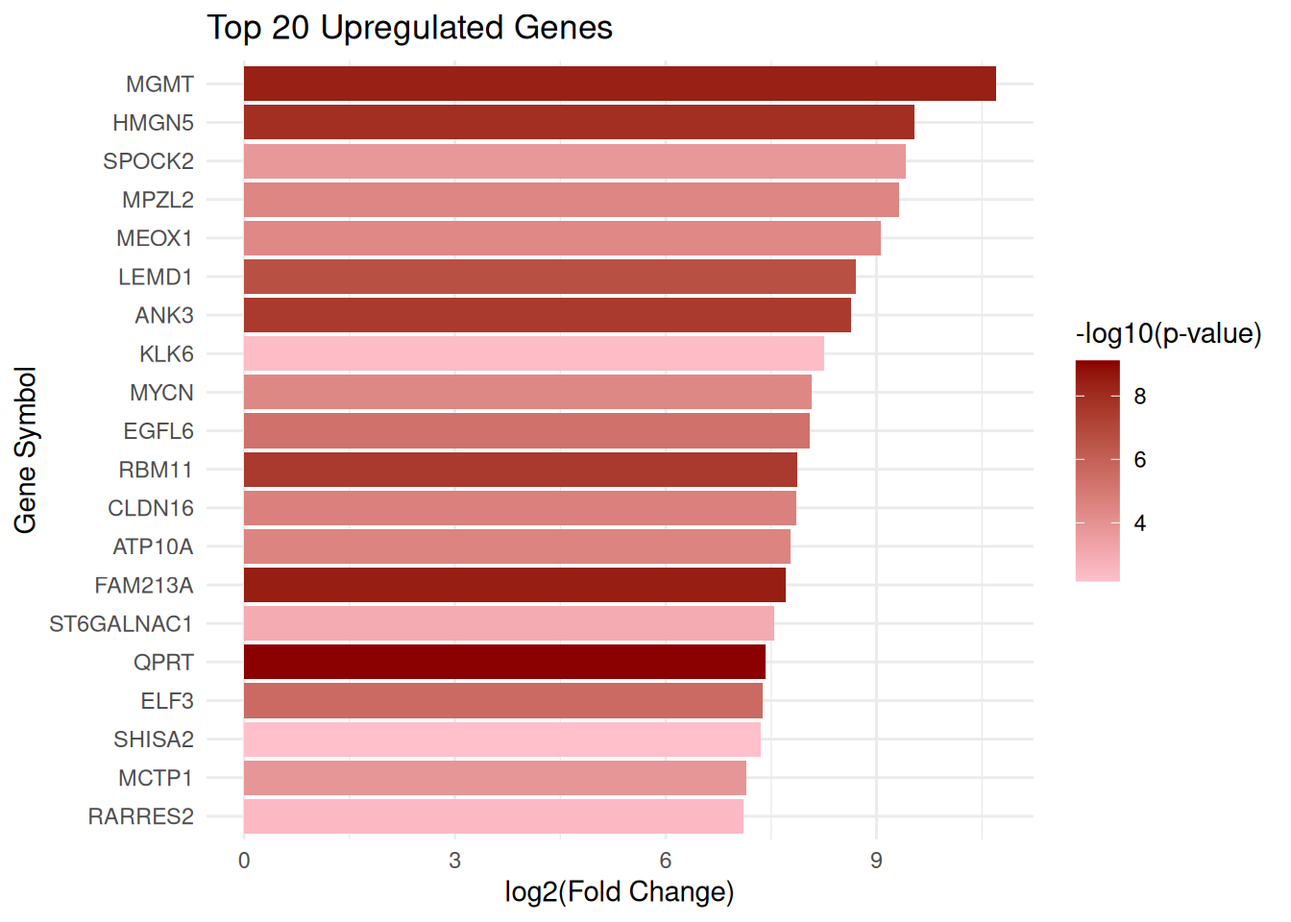
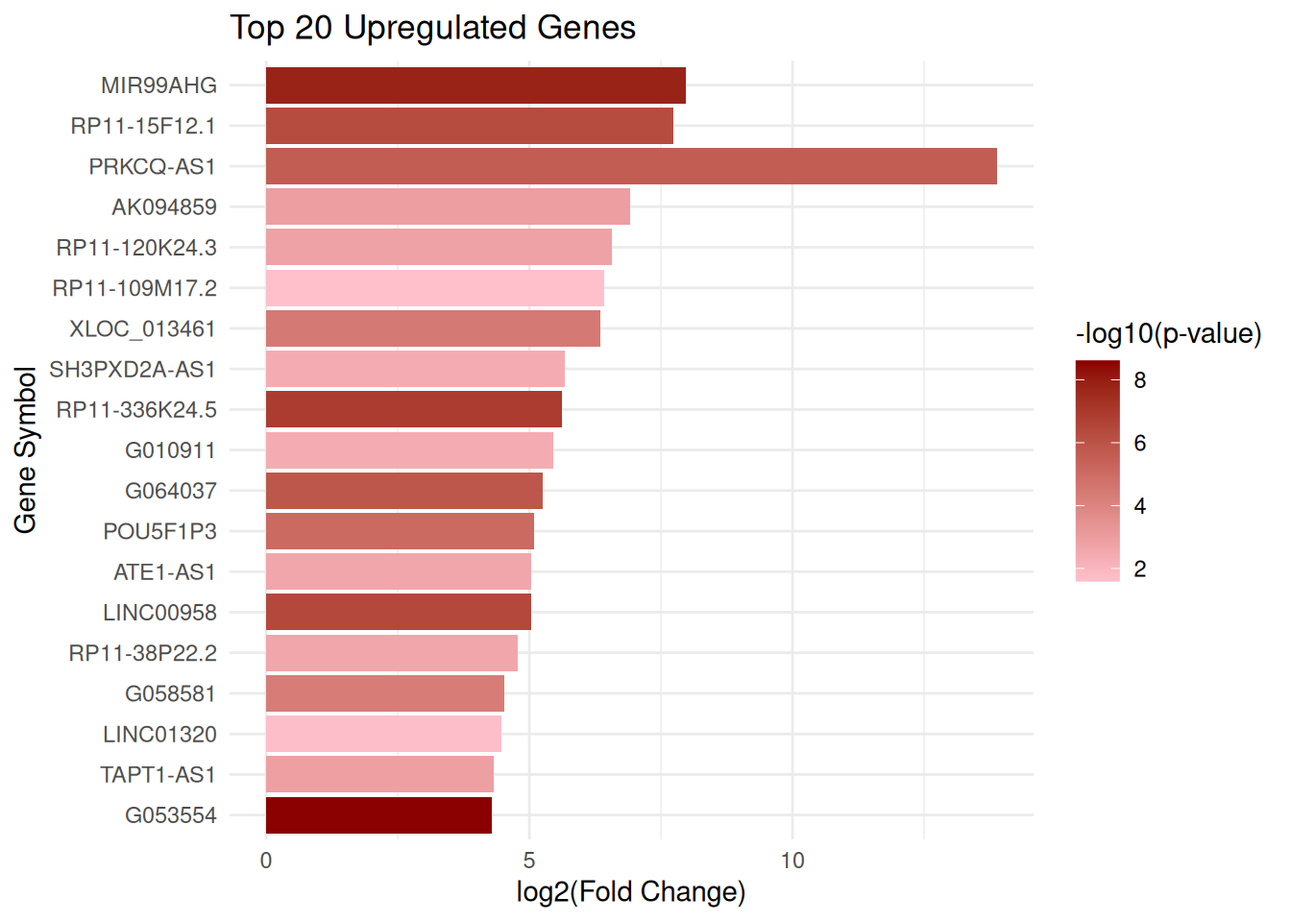
Built site for gh-pages

diff --git a/projects/project_title.html b/projects/project_title.html
@@ -8,7 +8,7 @@
 
 <meta name="author" content="Sneha Basu">
 
-<title>Transcriptomics profiling of Ovarian Cancer cells demonstrating differential lncRNA and mRNA expression – Sneha_Basu_website</title>
+<title>Transcriptomics profiling of Ovarian Cancer cells – Sneha_Basu_website</title>
 <style>
 code{white-space: pre-wrap;}
 span.smallcaps{font-variant: small-caps;}
@@ -144,15 +144,27 @@ pre > code.sourceCode > span > a:first-child::before { text-decoration: underlin
 <div id="quarto-content" class="quarto-container page-columns page-rows-contents page-layout-article page-navbar">
 <!-- sidebar -->
 <!-- margin-sidebar -->
-    <div id="quarto-margin-sidebar" class="sidebar margin-sidebar zindex-bottom">
-        
+    <div id="quarto-margin-sidebar" class="sidebar margin-sidebar">
+        <nav id="TOC" role="doc-toc" class="toc-active">
+    <h2 id="toc-title">On this page</h2>
+   
+  <ul>
+  <li><a href="#introduction-to-long-non-coding-rna" id="toc-introduction-to-long-non-coding-rna" class="nav-link active" data-scroll-target="#introduction-to-long-non-coding-rna">Introduction to long non-coding RNA</a>
+  <ul class="collapse">
+  <li><a href="#what-are-the-differentially-expressed-genes-in-ovarian-cancer" id="toc-what-are-the-differentially-expressed-genes-in-ovarian-cancer" class="nav-link" data-scroll-target="#what-are-the-differentially-expressed-genes-in-ovarian-cancer">What are the differentially expressed genes in Ovarian Cancer?</a></li>
+  <li><a href="#what-are-the-top-twenty-most-upregulated-and-downregulated-genes" id="toc-what-are-the-top-twenty-most-upregulated-and-downregulated-genes" class="nav-link" data-scroll-target="#what-are-the-top-twenty-most-upregulated-and-downregulated-genes">What are the top twenty most upregulated and downregulated genes?</a></li>
+  <li><a href="#is-there-any-transcriptomic-variation-among-the-ovarian-cancer-samples-and-control-sample" id="toc-is-there-any-transcriptomic-variation-among-the-ovarian-cancer-samples-and-control-sample" class="nav-link" data-scroll-target="#is-there-any-transcriptomic-variation-among-the-ovarian-cancer-samples-and-control-sample">Is there any transcriptomic variation among the ovarian cancer samples and control sample?</a></li>
+  <li><a href="#conclusion" id="toc-conclusion" class="nav-link" data-scroll-target="#conclusion">Conclusion</a></li>
+  </ul></li>
+  </ul>
+</nav>
     </div>
 <!-- main -->
 <main class="content" id="quarto-document-content">
 
 <header id="title-block-header" class="quarto-title-block default">
 <div class="quarto-title">
-<h1 class="title">Transcriptomics profiling of Ovarian Cancer cells demonstrating differential lncRNA and mRNA expression</h1>
+<h1 class="title">Transcriptomics profiling of Ovarian Cancer cells</h1>
 </div>
 
 
@@ -175,131 +187,120 @@ pre > code.sourceCode > span > a:first-child::before { text-decoration: underlin
 </header>
 
 
-<p>The goal of this study is to explore the transcriptomic changes in ovarian cancer cells by analyzing mRNA and lncRNA expression. We aim to identify significantly dysregulated genes and understand their roles in cancer progression using various computational techniques such as volcano plots, bar graphs, PCA, and CNC (coding-non-coding) correlation analysis.</p>
-<ol type="1">
-<li>What are the differentially expressed genes in Ovarian Cancer?</li>
-</ol>
+<section id="introduction-to-long-non-coding-rna" class="level1">
+<h1>Introduction to long non-coding RNA</h1>
+<p>Long non-coding RNAs (lncRNAs) are RNA molecules that are longer than 200 nucleotides and do not code for proteins. Once considered “junk” in the genome, lncRNAs are now recognized as crucial regulators of gene expression. They can influence cellular processes such as chromatin remodeling, transcription, splicing, and translation by interacting with DNA, RNA, or proteins.</p>
+<p>The goal of this study is to explore the transcriptomic changes in ovarian cancer cells by analyzing mRNA and lncRNA expression. We aim to identify significantly dysregulated genes and understand their roles in cancer progression using various computational techniques such as volcano plots, bar graphs, and PCA analysis.</p>
+<section id="what-are-the-differentially-expressed-genes-in-ovarian-cancer" class="level3">
+<h3 class="anchored" data-anchor-id="what-are-the-differentially-expressed-genes-in-ovarian-cancer">What are the differentially expressed genes in Ovarian Cancer?</h3>
 <div class="cell">
 <div class="sourceCode cell-code" id="cb1"><pre class="sourceCode r code-with-copy"><code class="sourceCode r"><span id="cb1-1"><a href="#cb1-1" aria-hidden="true" tabindex="-1"></a><span class="fu">library</span>(tidyverse)</span></code><button title="Copy to Clipboard" class="code-copy-button"><i class="bi"></i></button></pre></div>
-<div class="cell-output cell-output-stderr">
-<pre><code>── Attaching core tidyverse packages ──────────────────────── tidyverse 2.0.0 ──
-✔ dplyr     1.1.4     ✔ readr     2.1.5
-✔ forcats   1.0.0     ✔ stringr   1.5.1
-✔ ggplot2   3.5.2     ✔ tibble    3.3.0
-✔ lubridate 1.9.4     ✔ tidyr     1.3.1
-✔ purrr     1.1.0     
-── Conflicts ────────────────────────────────────────── tidyverse_conflicts() ──
-✖ dplyr::filter() masks stats::filter()
-✖ dplyr::lag()    masks stats::lag()
-ℹ Use the conflicted package (&lt;http://conflicted.r-lib.org/&gt;) to force all conflicts to become errors</code></pre>
 </div>
-</div>
-<p>Preparing the data for volcano plot</p>
+<p>Preparing the data for volcano plot (mRNA Data)</p>
 <div class="cell">
-<div class="sourceCode cell-code" id="cb3"><pre class="sourceCode r code-with-copy"><code class="sourceCode r"><span id="cb3-1"><a href="#cb3-1" aria-hidden="true" tabindex="-1"></a>mRNA_data <span class="ot">&lt;-</span> <span class="fu">read_csv</span>(<span class="st">"CNC_mRNA.csv"</span>)</span></code><button title="Copy to Clipboard" class="code-copy-button"><i class="bi"></i></button></pre></div>
-<div class="cell-output cell-output-stderr">
-<pre><code>Rows: 1974 Columns: 16
-── Column specification ────────────────────────────────────────────────────────
-Delimiter: ","
-chr  (5): ProbeName, Regulation, GeneSymbol, chrom, strand
-dbl (11): FoldChange, RNAlength, txStart, txEnd, 2,treatednormalized, 3,trea...
-
-ℹ Use `spec()` to retrieve the full column specification for this data.
-ℹ Specify the column types or set `show_col_types = FALSE` to quiet this message.</code></pre>
-</div>
-<div class="sourceCode cell-code" id="cb5"><pre class="sourceCode r code-with-copy"><code class="sourceCode r"><span id="cb5-1"><a href="#cb5-1" aria-hidden="true" tabindex="-1"></a>mRNA_data <span class="ot">&lt;-</span> mRNA_data <span class="sc">|&gt;</span> </span>
-<span id="cb5-2"><a href="#cb5-2" aria-hidden="true" tabindex="-1"></a>  <span class="fu">mutate</span>(</span>
-<span id="cb5-3"><a href="#cb5-3" aria-hidden="true" tabindex="-1"></a>    <span class="at">log2FC =</span> <span class="fu">ifelse</span>(Regulation <span class="sc">==</span> <span class="st">"down"</span>, <span class="sc">-</span><span class="fu">log2</span>(FoldChange), <span class="fu">log2</span>(FoldChange)),</span>
-<span id="cb5-4"><a href="#cb5-4" aria-hidden="true" tabindex="-1"></a>    <span class="at">negLog10P =</span> <span class="sc">-</span><span class="fu">log10</span>(p_value),</span>
-<span id="cb5-5"><a href="#cb5-5" aria-hidden="true" tabindex="-1"></a>    <span class="at">status =</span> <span class="fu">case_when</span>(</span>
-<span id="cb5-6"><a href="#cb5-6" aria-hidden="true" tabindex="-1"></a>      log2FC <span class="sc">&gt;=</span> <span class="dv">1</span> <span class="sc">&amp;</span> p_value <span class="sc">&lt;</span> <span class="fl">0.05</span> <span class="sc">~</span> <span class="st">"Upregulated"</span>,</span>
-<span id="cb5-7"><a href="#cb5-7" aria-hidden="true" tabindex="-1"></a>      log2FC <span class="sc">&lt;=</span> <span class="sc">-</span><span class="dv">1</span> <span class="sc">&amp;</span> p_value <span class="sc">&lt;</span> <span class="fl">0.05</span> <span class="sc">~</span> <span class="st">"Downregulated"</span>,</span>
-<span id="cb5-8"><a href="#cb5-8" aria-hidden="true" tabindex="-1"></a>      <span class="cn">TRUE</span> <span class="sc">~</span> <span class="st">"Not Significant"</span></span>
-<span id="cb5-9"><a href="#cb5-9" aria-hidden="true" tabindex="-1"></a>    )</span>
-<span id="cb5-10"><a href="#cb5-10" aria-hidden="true" tabindex="-1"></a>  )</span></code><button title="Copy to Clipboard" class="code-copy-button"><i class="bi"></i></button></pre></div>
+<div class="sourceCode cell-code" id="cb2"><pre class="sourceCode r code-with-copy"><code class="sourceCode r"><span id="cb2-1"><a href="#cb2-1" aria-hidden="true" tabindex="-1"></a>mRNA_data <span class="ot">&lt;-</span> <span class="fu">read_csv</span>(<span class="st">"CNC_mRNA.csv"</span>)</span>
+<span id="cb2-2"><a href="#cb2-2" aria-hidden="true" tabindex="-1"></a>mRNA_data <span class="ot">&lt;-</span> mRNA_data <span class="sc">|&gt;</span> </span>
+<span id="cb2-3"><a href="#cb2-3" aria-hidden="true" tabindex="-1"></a>  <span class="fu">mutate</span>(</span>
+<span id="cb2-4"><a href="#cb2-4" aria-hidden="true" tabindex="-1"></a>    <span class="at">log2FC =</span> <span class="fu">ifelse</span>(Regulation <span class="sc">==</span> <span class="st">"down"</span>, <span class="sc">-</span><span class="fu">log2</span>(FoldChange), <span class="fu">log2</span>(FoldChange)),</span>
+<span id="cb2-5"><a href="#cb2-5" aria-hidden="true" tabindex="-1"></a>    <span class="at">negLog10P =</span> <span class="sc">-</span><span class="fu">log10</span>(p_value),</span>
+<span id="cb2-6"><a href="#cb2-6" aria-hidden="true" tabindex="-1"></a>    <span class="at">status =</span> <span class="fu">case_when</span>(</span>
+<span id="cb2-7"><a href="#cb2-7" aria-hidden="true" tabindex="-1"></a>      log2FC <span class="sc">&gt;=</span> <span class="dv">2</span> <span class="sc">&amp;</span> p_value <span class="sc">&lt;</span> <span class="fl">0.05</span> <span class="sc">~</span> <span class="st">"Upregulated"</span>,</span>
+<span id="cb2-8"><a href="#cb2-8" aria-hidden="true" tabindex="-1"></a>      log2FC <span class="sc">&lt;=</span> <span class="sc">-</span><span class="dv">2</span> <span class="sc">&amp;</span> p_value <span class="sc">&lt;</span> <span class="fl">0.05</span> <span class="sc">~</span> <span class="st">"Downregulated"</span>,</span>
+<span id="cb2-9"><a href="#cb2-9" aria-hidden="true" tabindex="-1"></a>      <span class="cn">TRUE</span> <span class="sc">~</span> <span class="st">"Not Significant"</span></span>
+<span id="cb2-10"><a href="#cb2-10" aria-hidden="true" tabindex="-1"></a>    )</span>
+<span id="cb2-11"><a href="#cb2-11" aria-hidden="true" tabindex="-1"></a>  )</span></code><button title="Copy to Clipboard" class="code-copy-button"><i class="bi"></i></button></pre></div>
 </div>
 <div class="cell">
-<div class="sourceCode cell-code" id="cb6"><pre class="sourceCode r code-with-copy"><code class="sourceCode r"><span id="cb6-1"><a href="#cb6-1" aria-hidden="true" tabindex="-1"></a><span class="fu">table</span>(mRNA_data<span class="sc">$</span>status)</span></code><button title="Copy to Clipboard" class="code-copy-button"><i class="bi"></i></button></pre></div>
+<div class="sourceCode cell-code" id="cb3"><pre class="sourceCode r code-with-copy"><code class="sourceCode r"><span id="cb3-1"><a href="#cb3-1" aria-hidden="true" tabindex="-1"></a><span class="fu">table</span>(mRNA_data<span class="sc">$</span>status)</span></code><button title="Copy to Clipboard" class="code-copy-button"><i class="bi"></i></button></pre></div>
 <div class="cell-output cell-output-stdout">
 <pre><code>
   Downregulated Not Significant     Upregulated 
-            829             386             759 </code></pre>
+            304            1290             380 </code></pre>
 </div>
 </div>
 <p>Plotting the Volcano plot for mRNA data</p>
 <div class="cell">
-<div class="sourceCode cell-code" id="cb8"><pre class="sourceCode r code-with-copy"><code class="sourceCode r"><span id="cb8-1"><a href="#cb8-1" aria-hidden="true" tabindex="-1"></a><span class="fu">ggplot</span>(mRNA_data, <span class="fu">aes</span>(<span class="at">x =</span> log2FC, <span class="at">y =</span> negLog10P, <span class="at">color =</span> status)) <span class="sc">+</span></span>
-<span id="cb8-2"><a href="#cb8-2" aria-hidden="true" tabindex="-1"></a>  <span class="fu">geom_point</span>(<span class="at">alpha =</span> <span class="fl">0.8</span>, <span class="at">size =</span> <span class="fl">1.5</span>) <span class="sc">+</span></span>
-<span id="cb8-3"><a href="#cb8-3" aria-hidden="true" tabindex="-1"></a>  <span class="fu">scale_color_manual</span>(<span class="at">values =</span> <span class="fu">c</span>(</span>
-<span id="cb8-4"><a href="#cb8-4" aria-hidden="true" tabindex="-1"></a>    <span class="st">"Upregulated"</span> <span class="ot">=</span> <span class="st">"red"</span>,</span>
-<span id="cb8-5"><a href="#cb8-5" aria-hidden="true" tabindex="-1"></a>    <span class="st">"Downregulated"</span> <span class="ot">=</span> <span class="st">"green"</span>,</span>
-<span id="cb8-6"><a href="#cb8-6" aria-hidden="true" tabindex="-1"></a>    <span class="st">"Not Significant"</span> <span class="ot">=</span> <span class="st">"black"</span></span>
-<span id="cb8-7"><a href="#cb8-7" aria-hidden="true" tabindex="-1"></a>  )) <span class="sc">+</span></span>
-<span id="cb8-8"><a href="#cb8-8" aria-hidden="true" tabindex="-1"></a>  <span class="fu">geom_vline</span>(<span class="at">xintercept =</span> <span class="fu">c</span>(<span class="sc">-</span><span class="dv">1</span>, <span class="dv">1</span>), <span class="at">linetype =</span> <span class="st">"dotted"</span>, <span class="at">color =</span> <span class="st">"grey40"</span>) <span class="sc">+</span></span>
-<span id="cb8-9"><a href="#cb8-9" aria-hidden="true" tabindex="-1"></a>  <span class="fu">geom_hline</span>(<span class="at">yintercept =</span> <span class="sc">-</span><span class="fu">log10</span>(<span class="fl">0.05</span>), <span class="at">linetype =</span> <span class="st">"dotted"</span>, <span class="at">color =</span> <span class="st">"grey40"</span>) <span class="sc">+</span></span>
-<span id="cb8-10"><a href="#cb8-10" aria-hidden="true" tabindex="-1"></a>  <span class="fu">theme_minimal</span>() <span class="sc">+</span></span>
-<span id="cb8-11"><a href="#cb8-11" aria-hidden="true" tabindex="-1"></a>  <span class="fu">labs</span>(</span>
-<span id="cb8-12"><a href="#cb8-12" aria-hidden="true" tabindex="-1"></a>    <span class="at">title =</span> <span class="st">"Volcano Plot: Differential Expression (mRNA)"</span>,</span>
-<span id="cb8-13"><a href="#cb8-13" aria-hidden="true" tabindex="-1"></a>    <span class="at">x =</span> <span class="st">"log2(Fold Change)"</span>,</span>
-<span id="cb8-14"><a href="#cb8-14" aria-hidden="true" tabindex="-1"></a>    <span class="at">y =</span> <span class="st">"-log10(p-value)"</span></span>
-<span id="cb8-15"><a href="#cb8-15" aria-hidden="true" tabindex="-1"></a>  ) <span class="sc">+</span></span>
-<span id="cb8-16"><a href="#cb8-16" aria-hidden="true" tabindex="-1"></a>  <span class="fu">theme</span>(<span class="at">legend.title =</span> <span class="fu">element_blank</span>())</span></code><button title="Copy to Clipboard" class="code-copy-button"><i class="bi"></i></button></pre></div>
+<div class="sourceCode cell-code" id="cb5"><pre class="sourceCode r code-with-copy"><code class="sourceCode r"><span id="cb5-1"><a href="#cb5-1" aria-hidden="true" tabindex="-1"></a><span class="fu">ggplot</span>(mRNA_data, <span class="fu">aes</span>(<span class="at">x =</span> log2FC, <span class="at">y =</span> negLog10P, <span class="at">color =</span> status)) <span class="sc">+</span></span>
+<span id="cb5-2"><a href="#cb5-2" aria-hidden="true" tabindex="-1"></a>  <span class="fu">geom_point</span>(<span class="at">alpha =</span> <span class="fl">0.8</span>, <span class="at">size =</span> <span class="fl">1.5</span>) <span class="sc">+</span></span>
+<span id="cb5-3"><a href="#cb5-3" aria-hidden="true" tabindex="-1"></a>  <span class="fu">scale_color_manual</span>(<span class="at">values =</span> <span class="fu">c</span>(</span>
+<span id="cb5-4"><a href="#cb5-4" aria-hidden="true" tabindex="-1"></a>    <span class="st">"Upregulated"</span> <span class="ot">=</span> <span class="st">"red"</span>,</span>
+<span id="cb5-5"><a href="#cb5-5" aria-hidden="true" tabindex="-1"></a>    <span class="st">"Downregulated"</span> <span class="ot">=</span> <span class="st">"green"</span>,</span>
+<span id="cb5-6"><a href="#cb5-6" aria-hidden="true" tabindex="-1"></a>    <span class="st">"Not Significant"</span> <span class="ot">=</span> <span class="st">"grey"</span></span>
+<span id="cb5-7"><a href="#cb5-7" aria-hidden="true" tabindex="-1"></a>  )) <span class="sc">+</span></span>
+<span id="cb5-8"><a href="#cb5-8" aria-hidden="true" tabindex="-1"></a>  <span class="fu">geom_vline</span>(<span class="at">xintercept =</span> <span class="fu">c</span>(<span class="sc">-</span><span class="dv">2</span>, <span class="dv">2</span>), <span class="at">linetype =</span> <span class="st">"dotted"</span>, <span class="at">color =</span> <span class="st">"black"</span>) <span class="sc">+</span></span>
+<span id="cb5-9"><a href="#cb5-9" aria-hidden="true" tabindex="-1"></a>  <span class="fu">geom_hline</span>(<span class="at">yintercept =</span> <span class="sc">-</span><span class="fu">log10</span>(<span class="fl">0.05</span>), <span class="at">linetype =</span> <span class="st">"dotted"</span>, <span class="at">color =</span> <span class="st">"black"</span>) <span class="sc">+</span></span>
+<span id="cb5-10"><a href="#cb5-10" aria-hidden="true" tabindex="-1"></a>  <span class="fu">theme_minimal</span>() <span class="sc">+</span></span>
+<span id="cb5-11"><a href="#cb5-11" aria-hidden="true" tabindex="-1"></a>  <span class="fu">labs</span>(</span>
+<span id="cb5-12"><a href="#cb5-12" aria-hidden="true" tabindex="-1"></a>    <span class="at">title =</span> <span class="st">"Volcano Plot: Differential Expression (mRNA)"</span>,</span>
+<span id="cb5-13"><a href="#cb5-13" aria-hidden="true" tabindex="-1"></a>    <span class="at">x =</span> <span class="st">"log2(Fold Change)"</span>,</span>
+<span id="cb5-14"><a href="#cb5-14" aria-hidden="true" tabindex="-1"></a>    <span class="at">y =</span> <span class="st">"-log10(p-value)"</span></span>
+<span id="cb5-15"><a href="#cb5-15" aria-hidden="true" tabindex="-1"></a>  ) <span class="sc">+</span></span>
+<span id="cb5-16"><a href="#cb5-16" aria-hidden="true" tabindex="-1"></a>  <span class="fu">theme</span>(<span class="at">legend.title =</span> <span class="fu">element_blank</span>())</span></code><button title="Copy to Clipboard" class="code-copy-button"><i class="bi"></i></button></pre></div>
 <div class="cell-output-display">
 <div>
 <figure class="figure">
-<p><img src="project_title_files/figure-html/unnamed-chunk-5-1.png" class="img-fluid figure-img" width="672"></p>
+<p><img src="project_title_files/figure-html/unnamed-chunk-4-1.png" class="img-fluid figure-img" width="672"></p>
 </figure>
 </div>
 </div>
 </div>
+<p>Preparing the data for volcano plot (lncRNA Data)</p>
 <div class="cell">
-<div class="sourceCode cell-code" id="cb9"><pre class="sourceCode r code-with-copy"><code class="sourceCode r"><span id="cb9-1"><a href="#cb9-1" aria-hidden="true" tabindex="-1"></a>lncRNA_data <span class="ot">&lt;-</span> <span class="fu">read_csv</span>(<span class="st">"CNC_lncRNA.csv"</span>)</span></code><button title="Copy to Clipboard" class="code-copy-button"><i class="bi"></i></button></pre></div>
-<div class="cell-output cell-output-stderr">
-<pre><code>Rows: 1932 Columns: 16
-── Column specification ────────────────────────────────────────────────────────
-Delimiter: ","
-chr  (5): ProbeName, Regulation, GeneSymbol, chrom, strand
-dbl (11): FoldChange, RNAlength, txStart, txEnd, 2,treatednormalized, 3,trea...
-
-ℹ Use `spec()` to retrieve the full column specification for this data.
-ℹ Specify the column types or set `show_col_types = FALSE` to quiet this message.</code></pre>
+<div class="sourceCode cell-code" id="cb6"><pre class="sourceCode r code-with-copy"><code class="sourceCode r"><span id="cb6-1"><a href="#cb6-1" aria-hidden="true" tabindex="-1"></a>lncRNA_data <span class="ot">&lt;-</span> <span class="fu">read_csv</span>(<span class="st">"CNC_lncRNA.csv"</span>)</span>
+<span id="cb6-2"><a href="#cb6-2" aria-hidden="true" tabindex="-1"></a>lncRNA_data <span class="ot">&lt;-</span> lncRNA_data <span class="sc">|&gt;</span> </span>
+<span id="cb6-3"><a href="#cb6-3" aria-hidden="true" tabindex="-1"></a>  <span class="fu">mutate</span>(</span>
+<span id="cb6-4"><a href="#cb6-4" aria-hidden="true" tabindex="-1"></a>    <span class="at">log2FC =</span> <span class="fu">ifelse</span>(Regulation <span class="sc">==</span> <span class="st">"down"</span>, <span class="sc">-</span><span class="fu">log2</span>(<span class="st">`</span><span class="at">FoldChange</span><span class="st">`</span>), <span class="fu">log2</span>(<span class="st">`</span><span class="at">FoldChange</span><span class="st">`</span>)),</span>
+<span id="cb6-5"><a href="#cb6-5" aria-hidden="true" tabindex="-1"></a>    <span class="at">negLog10P =</span> <span class="sc">-</span><span class="fu">log10</span>(p_value),</span>
+<span id="cb6-6"><a href="#cb6-6" aria-hidden="true" tabindex="-1"></a>    <span class="at">status =</span> <span class="fu">case_when</span>(</span>
+<span id="cb6-7"><a href="#cb6-7" aria-hidden="true" tabindex="-1"></a>      log2FC <span class="sc">&gt;=</span> <span class="dv">2</span> <span class="sc">&amp;</span> p_value <span class="sc">&lt;</span> <span class="fl">0.05</span> <span class="sc">~</span> <span class="st">"Upregulated"</span>,</span>
+<span id="cb6-8"><a href="#cb6-8" aria-hidden="true" tabindex="-1"></a>      log2FC <span class="sc">&lt;=</span> <span class="sc">-</span><span class="dv">2</span> <span class="sc">&amp;</span> p_value <span class="sc">&lt;</span> <span class="fl">0.05</span> <span class="sc">~</span> <span class="st">"Downregulated"</span>,</span>
+<span id="cb6-9"><a href="#cb6-9" aria-hidden="true" tabindex="-1"></a>      <span class="cn">TRUE</span> <span class="sc">~</span> <span class="st">"Not Significant"</span>))</span></code><button title="Copy to Clipboard" class="code-copy-button"><i class="bi"></i></button></pre></div>
 </div>
-<div class="sourceCode cell-code" id="cb11"><pre class="sourceCode r code-with-copy"><code class="sourceCode r"><span id="cb11-1"><a href="#cb11-1" aria-hidden="true" tabindex="-1"></a>lncRNA_data <span class="ot">&lt;-</span> lncRNA_data <span class="sc">|&gt;</span> </span>
-<span id="cb11-2"><a href="#cb11-2" aria-hidden="true" tabindex="-1"></a>  <span class="fu">mutate</span>(</span>
-<span id="cb11-3"><a href="#cb11-3" aria-hidden="true" tabindex="-1"></a>    <span class="at">log2FC =</span> <span class="fu">ifelse</span>(Regulation <span class="sc">==</span> <span class="st">"down"</span>, <span class="sc">-</span><span class="fu">log2</span>(<span class="st">`</span><span class="at">FoldChange</span><span class="st">`</span>), <span class="fu">log2</span>(<span class="st">`</span><span class="at">FoldChange</span><span class="st">`</span>)),</span>
-<span id="cb11-4"><a href="#cb11-4" aria-hidden="true" tabindex="-1"></a>    <span class="at">negLog10P =</span> <span class="sc">-</span><span class="fu">log10</span>(p_value),</span>
-<span id="cb11-5"><a href="#cb11-5" aria-hidden="true" tabindex="-1"></a>    <span class="at">status =</span> <span class="fu">case_when</span>(</span>
-<span id="cb11-6"><a href="#cb11-6" aria-hidden="true" tabindex="-1"></a>      log2FC <span class="sc">&gt;=</span> <span class="dv">1</span> <span class="sc">&amp;</span> p_value <span class="sc">&lt;</span> <span class="fl">0.05</span> <span class="sc">~</span> <span class="st">"Upregulated"</span>,</span>
-<span id="cb11-7"><a href="#cb11-7" aria-hidden="true" tabindex="-1"></a>      log2FC <span class="sc">&lt;=</span> <span class="sc">-</span><span class="dv">1</span> <span class="sc">&amp;</span> p_value <span class="sc">&lt;</span> <span class="fl">0.05</span> <span class="sc">~</span> <span class="st">"Downregulated"</span>,</span>
-<span id="cb11-8"><a href="#cb11-8" aria-hidden="true" tabindex="-1"></a>      <span class="cn">TRUE</span> <span class="sc">~</span> <span class="st">"Not Significant"</span>))</span></code><button title="Copy to Clipboard" class="code-copy-button"><i class="bi"></i></button></pre></div>
-</div>
-<p>Preparing the data for volcano plot</p>
+<p>Preparing the data for volcano plot (lncRNA)</p>
 <div class="cell">
-<div class="sourceCode cell-code" id="cb12"><pre class="sourceCode r code-with-copy"><code class="sourceCode r"><span id="cb12-1"><a href="#cb12-1" aria-hidden="true" tabindex="-1"></a><span class="fu">table</span>(lncRNA_data<span class="sc">$</span>status)</span></code><button title="Copy to Clipboard" class="code-copy-button"><i class="bi"></i></button></pre></div>
+<div class="sourceCode cell-code" id="cb7"><pre class="sourceCode r code-with-copy"><code class="sourceCode r"><span id="cb7-1"><a href="#cb7-1" aria-hidden="true" tabindex="-1"></a><span class="fu">table</span>(lncRNA_data<span class="sc">$</span>status)</span></code><button title="Copy to Clipboard" class="code-copy-button"><i class="bi"></i></button></pre></div>
 <div class="cell-output cell-output-stdout">
 <pre><code>
   Downregulated Not Significant     Upregulated 
-            823             419             690 </code></pre>
+            320            1440             172 </code></pre>
 </div>
 </div>
 <p>Plotting the Volcano plot for lncRNA data</p>
 <div class="cell">
-<div class="sourceCode cell-code" id="cb14"><pre class="sourceCode r code-with-copy"><code class="sourceCode r"><span id="cb14-1"><a href="#cb14-1" aria-hidden="true" tabindex="-1"></a><span class="fu">ggplot</span>(lncRNA_data, <span class="fu">aes</span>(<span class="at">x =</span> log2FC, <span class="at">y =</span> negLog10P, <span class="at">color =</span> status)) <span class="sc">+</span></span>
-<span id="cb14-2"><a href="#cb14-2" aria-hidden="true" tabindex="-1"></a>  <span class="fu">geom_point</span>(<span class="at">alpha =</span> <span class="fl">0.8</span>, <span class="at">size =</span> <span class="fl">1.5</span>) <span class="sc">+</span></span>
-<span id="cb14-3"><a href="#cb14-3" aria-hidden="true" tabindex="-1"></a>  <span class="fu">scale_color_manual</span>(<span class="at">values =</span> <span class="fu">c</span>(</span>
-<span id="cb14-4"><a href="#cb14-4" aria-hidden="true" tabindex="-1"></a>    <span class="st">"Upregulated"</span> <span class="ot">=</span> <span class="st">"red"</span>,</span>
-<span id="cb14-5"><a href="#cb14-5" aria-hidden="true" tabindex="-1"></a>    <span class="st">"Downregulated"</span> <span class="ot">=</span> <span class="st">"green"</span>,</span>
-<span id="cb14-6"><a href="#cb14-6" aria-hidden="true" tabindex="-1"></a>    <span class="st">"Not Significant"</span> <span class="ot">=</span> <span class="st">"black"</span></span>
-<span id="cb14-7"><a href="#cb14-7" aria-hidden="true" tabindex="-1"></a>  )) <span class="sc">+</span></span>
-<span id="cb14-8"><a href="#cb14-8" aria-hidden="true" tabindex="-1"></a>  <span class="fu">geom_vline</span>(<span class="at">xintercept =</span> <span class="fu">c</span>(<span class="sc">-</span><span class="dv">1</span>, <span class="dv">1</span>), <span class="at">linetype =</span> <span class="st">"dotted"</span>, <span class="at">color =</span> <span class="st">"grey40"</span>) <span class="sc">+</span></span>
-<span id="cb14-9"><a href="#cb14-9" aria-hidden="true" tabindex="-1"></a>  <span class="fu">geom_hline</span>(<span class="at">yintercept =</span> <span class="sc">-</span><span class="fu">log10</span>(<span class="fl">0.05</span>), <span class="at">linetype =</span> <span class="st">"dotted"</span>, <span class="at">color =</span> <span class="st">"grey40"</span>) <span class="sc">+</span></span>
-<span id="cb14-10"><a href="#cb14-10" aria-hidden="true" tabindex="-1"></a>  <span class="fu">theme_minimal</span>() <span class="sc">+</span></span>
-<span id="cb14-11"><a href="#cb14-11" aria-hidden="true" tabindex="-1"></a>  <span class="fu">labs</span>(</span>
-<span id="cb14-12"><a href="#cb14-12" aria-hidden="true" tabindex="-1"></a>    <span class="at">title =</span> <span class="st">"Volcano Plot: Differential Expression (lncRNA)"</span>,</span>
-<span id="cb14-13"><a href="#cb14-13" aria-hidden="true" tabindex="-1"></a>    <span class="at">x =</span> <span class="st">"log2(Fold Change)"</span>,</span>
-<span id="cb14-14"><a href="#cb14-14" aria-hidden="true" tabindex="-1"></a>    <span class="at">y =</span> <span class="st">"-log10(p-value)"</span></span>
-<span id="cb14-15"><a href="#cb14-15" aria-hidden="true" tabindex="-1"></a>  ) <span class="sc">+</span></span>
-<span id="cb14-16"><a href="#cb14-16" aria-hidden="true" tabindex="-1"></a>  <span class="fu">theme</span>(<span class="at">legend.title =</span> <span class="fu">element_blank</span>())</span></code><button title="Copy to Clipboard" class="code-copy-button"><i class="bi"></i></button></pre></div>
+<div class="sourceCode cell-code" id="cb9"><pre class="sourceCode r code-with-copy"><code class="sourceCode r"><span id="cb9-1"><a href="#cb9-1" aria-hidden="true" tabindex="-1"></a><span class="fu">ggplot</span>(lncRNA_data, <span class="fu">aes</span>(<span class="at">x =</span> log2FC, <span class="at">y =</span> negLog10P, <span class="at">color =</span> status)) <span class="sc">+</span></span>
+<span id="cb9-2"><a href="#cb9-2" aria-hidden="true" tabindex="-1"></a>  <span class="fu">geom_point</span>(<span class="at">alpha =</span> <span class="fl">0.8</span>, <span class="at">size =</span> <span class="fl">1.5</span>) <span class="sc">+</span></span>
+<span id="cb9-3"><a href="#cb9-3" aria-hidden="true" tabindex="-1"></a>  <span class="fu">scale_color_manual</span>(<span class="at">values =</span> <span class="fu">c</span>(</span>
+<span id="cb9-4"><a href="#cb9-4" aria-hidden="true" tabindex="-1"></a>    <span class="st">"Upregulated"</span> <span class="ot">=</span> <span class="st">"red"</span>,</span>
+<span id="cb9-5"><a href="#cb9-5" aria-hidden="true" tabindex="-1"></a>    <span class="st">"Downregulated"</span> <span class="ot">=</span> <span class="st">"green"</span>,</span>
+<span id="cb9-6"><a href="#cb9-6" aria-hidden="true" tabindex="-1"></a>    <span class="st">"Not Significant"</span> <span class="ot">=</span> <span class="st">"grey"</span></span>
+<span id="cb9-7"><a href="#cb9-7" aria-hidden="true" tabindex="-1"></a>  )) <span class="sc">+</span></span>
+<span id="cb9-8"><a href="#cb9-8" aria-hidden="true" tabindex="-1"></a>  <span class="fu">geom_vline</span>(<span class="at">xintercept =</span> <span class="fu">c</span>(<span class="sc">-</span><span class="dv">2</span>, <span class="dv">2</span>), <span class="at">linetype =</span> <span class="st">"dotted"</span>, <span class="at">color =</span> <span class="st">"black"</span>) <span class="sc">+</span></span>
+<span id="cb9-9"><a href="#cb9-9" aria-hidden="true" tabindex="-1"></a>  <span class="fu">geom_hline</span>(<span class="at">yintercept =</span> <span class="sc">-</span><span class="fu">log10</span>(<span class="fl">0.05</span>), <span class="at">linetype =</span> <span class="st">"dotted"</span>, <span class="at">color =</span> <span class="st">"black"</span>) <span class="sc">+</span></span>
+<span id="cb9-10"><a href="#cb9-10" aria-hidden="true" tabindex="-1"></a>  <span class="fu">theme_minimal</span>() <span class="sc">+</span></span>
+<span id="cb9-11"><a href="#cb9-11" aria-hidden="true" tabindex="-1"></a>  <span class="fu">labs</span>(</span>
+<span id="cb9-12"><a href="#cb9-12" aria-hidden="true" tabindex="-1"></a>    <span class="at">title =</span> <span class="st">"Volcano Plot: Differential Expression (lncRNA)"</span>,</span>
+<span id="cb9-13"><a href="#cb9-13" aria-hidden="true" tabindex="-1"></a>    <span class="at">x =</span> <span class="st">"log2(Fold Change)"</span>,</span>
+<span id="cb9-14"><a href="#cb9-14" aria-hidden="true" tabindex="-1"></a>    <span class="at">y =</span> <span class="st">"-log10(p-value)"</span></span>
+<span id="cb9-15"><a href="#cb9-15" aria-hidden="true" tabindex="-1"></a>  ) <span class="sc">+</span></span>
+<span id="cb9-16"><a href="#cb9-16" aria-hidden="true" tabindex="-1"></a>  <span class="fu">theme</span>(<span class="at">legend.title =</span> <span class="fu">element_blank</span>())</span></code><button title="Copy to Clipboard" class="code-copy-button"><i class="bi"></i></button></pre></div>
+<div class="cell-output-display">
+<div>
+<figure class="figure">
+<p><img src="project_title_files/figure-html/unnamed-chunk-7-1.png" class="img-fluid figure-img" width="672"></p>
+</figure>
+</div>
+</div>
+</div>
+</section>
+<section id="what-are-the-top-twenty-most-upregulated-and-downregulated-genes" class="level3">
+<h3 class="anchored" data-anchor-id="what-are-the-top-twenty-most-upregulated-and-downregulated-genes">What are the top twenty most upregulated and downregulated genes?</h3>
+<p>Top 20 upregulated mRNA</p>
+<div class="cell">
+<div class="sourceCode cell-code" id="cb10"><pre class="sourceCode r code-with-copy"><code class="sourceCode r"><span id="cb10-1"><a href="#cb10-1" aria-hidden="true" tabindex="-1"></a>top_up_mRNA <span class="ot">&lt;-</span> mRNA_data <span class="sc">|&gt;</span> <span class="fu">arrange</span>(<span class="fu">desc</span>(log2FC)) <span class="sc">|&gt;</span> <span class="fu">slice_head</span>(<span class="at">n =</span> <span class="dv">20</span>)</span></code><button title="Copy to Clipboard" class="code-copy-button"><i class="bi"></i></button></pre></div>
+</div>
+<p>Plot upregulated mRNA</p>
+<div class="cell">
+<div class="sourceCode cell-code" id="cb11"><pre class="sourceCode r code-with-copy"><code class="sourceCode r"><span id="cb11-1"><a href="#cb11-1" aria-hidden="true" tabindex="-1"></a><span class="fu">ggplot</span>(top_up_mRNA, <span class="fu">aes</span>(<span class="at">x =</span> <span class="fu">reorder</span>(GeneSymbol, log2FC), <span class="at">y =</span> log2FC, <span class="at">fill =</span> negLog10P)) <span class="sc">+</span> <span class="fu">geom_col</span>() <span class="sc">+</span> <span class="fu">scale_fill_gradient</span>(<span class="at">low =</span> <span class="st">"pink"</span>, <span class="at">high =</span> <span class="st">"darkred"</span>, <span class="at">name =</span> <span class="st">"-log10(p-value)"</span>) <span class="sc">+</span> <span class="fu">coord_flip</span>() <span class="sc">+</span> <span class="fu">theme_minimal</span>() <span class="sc">+</span> <span class="fu">labs</span>( <span class="at">title =</span> <span class="st">"Top 20 Upregulated Genes"</span>, <span class="at">x =</span> <span class="st">"Gene Symbol"</span>, <span class="at">y =</span> <span class="st">"log2(Fold Change)"</span>)</span></code><button title="Copy to Clipboard" class="code-copy-button"><i class="bi"></i></button></pre></div>
 <div class="cell-output-display">
 <div>
 <figure class="figure">
@@ -308,15 +309,25 @@ dbl (11): FoldChange, RNAlength, txStart, txEnd, 2,treatednormalized, 3,trea...
 </div>
 </div>
 </div>
-<p>What are the top twenty most upregulated and downregulated genes?</p>
-<p>Compute log2FC and -log10(p-value)</p>
-<p>Top 20 upregulated genes</p>
+<p>Top 20 downregulated mRNA</p>
 <div class="cell">
-<div class="sourceCode cell-code" id="cb15"><pre class="sourceCode r code-with-copy"><code class="sourceCode r"><span id="cb15-1"><a href="#cb15-1" aria-hidden="true" tabindex="-1"></a>top_up_mRNA <span class="ot">&lt;-</span> mRNA_data <span class="sc">|&gt;</span> <span class="fu">arrange</span>(<span class="fu">desc</span>(log2FC)) <span class="sc">|&gt;</span> <span class="fu">slice_head</span>(<span class="at">n =</span> <span class="dv">20</span>)</span></code><button title="Copy to Clipboard" class="code-copy-button"><i class="bi"></i></button></pre></div>
+<div class="sourceCode cell-code" id="cb12"><pre class="sourceCode r code-with-copy"><code class="sourceCode r"><span id="cb12-1"><a href="#cb12-1" aria-hidden="true" tabindex="-1"></a>top_down_mRNA <span class="ot">&lt;-</span> mRNA_data <span class="sc">|&gt;</span> <span class="fu">arrange</span>(log2FC) <span class="sc">|&gt;</span> <span class="fu">slice_head</span>(<span class="at">n =</span> <span class="dv">20</span>)</span></code><button title="Copy to Clipboard" class="code-copy-button"><i class="bi"></i></button></pre></div>
 </div>
-<p>Plot upregulated</p>
+<p>Plot downregulated mRNA</p>
 <div class="cell">
-<div class="sourceCode cell-code" id="cb16"><pre class="sourceCode r code-with-copy"><code class="sourceCode r"><span id="cb16-1"><a href="#cb16-1" aria-hidden="true" tabindex="-1"></a><span class="fu">ggplot</span>(top_up_mRNA, <span class="fu">aes</span>(<span class="at">x =</span> <span class="fu">reorder</span>(GeneSymbol, log2FC), <span class="at">y =</span> log2FC, <span class="at">fill =</span> negLog10P)) <span class="sc">+</span> <span class="fu">geom_col</span>() <span class="sc">+</span> <span class="fu">scale_fill_gradient</span>(<span class="at">low =</span> <span class="st">"pink"</span>, <span class="at">high =</span> <span class="st">"darkred"</span>, <span class="at">name =</span> <span class="st">"-log10(p-value)"</span>) <span class="sc">+</span> <span class="fu">coord_flip</span>() <span class="sc">+</span> <span class="fu">theme_minimal</span>() <span class="sc">+</span> <span class="fu">labs</span>( <span class="at">title =</span> <span class="st">"Top 20 Upregulated Genes"</span>, <span class="at">x =</span> <span class="st">"Gene Symbol"</span>, <span class="at">y =</span> <span class="st">"log2(Fold Change)"</span>)</span></code><button title="Copy to Clipboard" class="code-copy-button"><i class="bi"></i></button></pre></div>
+<div class="sourceCode cell-code" id="cb13"><pre class="sourceCode r code-with-copy"><code class="sourceCode r"><span id="cb13-1"><a href="#cb13-1" aria-hidden="true" tabindex="-1"></a><span class="fu">ggplot</span>(top_down_mRNA, <span class="fu">aes</span>(<span class="at">x =</span> <span class="fu">reorder</span>(GeneSymbol, log2FC), <span class="at">y =</span> log2FC, <span class="at">fill =</span> negLog10P)) <span class="sc">+</span> <span class="fu">geom_col</span>() <span class="sc">+</span> <span class="fu">scale_fill_gradient</span>(<span class="at">low =</span> <span class="st">"lightgreen"</span>, <span class="at">high =</span> <span class="st">"darkgreen"</span>, <span class="at">name =</span> <span class="st">"-log10(p-value)"</span>) <span class="sc">+</span> <span class="fu">coord_flip</span>() <span class="sc">+</span> <span class="fu">theme_minimal</span>() <span class="sc">+</span> <span class="fu">labs</span>(<span class="at">title =</span> <span class="st">"Top 20 Downregulated Genes"</span>, <span class="at">x =</span> <span class="st">"Gene Symbol"</span>, <span class="at">y =</span> <span class="st">"log2(Fold Change)"</span>)</span></code><button title="Copy to Clipboard" class="code-copy-button"><i class="bi"></i></button></pre></div>
+<div class="cell-output-display">
+<div>
+<figure class="figure">
+<p><img src="project_title_files/figure-html/unnamed-chunk-11-1.png" class="img-fluid figure-img" width="672"></p>
+</figure>
+</div>
+</div>
+</div>
+<p>Top 20 upregulated lncRNA</p>
+<div class="cell">
+<div class="sourceCode cell-code" id="cb14"><pre class="sourceCode r code-with-copy"><code class="sourceCode r"><span id="cb14-1"><a href="#cb14-1" aria-hidden="true" tabindex="-1"></a>top_up_lncRNA <span class="ot">&lt;-</span> lncRNA_data <span class="sc">|&gt;</span> <span class="fu">arrange</span>(<span class="fu">desc</span>(log2FC)) <span class="sc">|&gt;</span> <span class="fu">slice_head</span>(<span class="at">n =</span> <span class="dv">20</span>)</span>
+<span id="cb14-2"><a href="#cb14-2" aria-hidden="true" tabindex="-1"></a><span class="fu">ggplot</span>(top_up_lncRNA, <span class="fu">aes</span>(<span class="at">x =</span> <span class="fu">reorder</span>(GeneSymbol, log2FC), <span class="at">y =</span> log2FC, <span class="at">fill =</span> negLog10P)) <span class="sc">+</span> <span class="fu">geom_col</span>() <span class="sc">+</span> <span class="fu">scale_fill_gradient</span>(<span class="at">low =</span> <span class="st">"pink"</span>, <span class="at">high =</span> <span class="st">"darkred"</span>, <span class="at">name =</span> <span class="st">"-log10(p-value)"</span>) <span class="sc">+</span> <span class="fu">coord_flip</span>() <span class="sc">+</span> <span class="fu">theme_minimal</span>() <span class="sc">+</span> <span class="fu">labs</span>( <span class="at">title =</span> <span class="st">"Top 20 Upregulated Genes"</span>, <span class="at">x =</span> <span class="st">"Gene Symbol"</span>, <span class="at">y =</span> <span class="st">"log2(Fold Change)"</span>)</span></code><button title="Copy to Clipboard" class="code-copy-button"><i class="bi"></i></button></pre></div>
 <div class="cell-output-display">
 <div>
 <figure class="figure">
@@ -325,27 +336,29 @@ dbl (11): FoldChange, RNAlength, txStart, txEnd, 2,treatednormalized, 3,trea...
 </div>
 </div>
 </div>
-<p>Top 20 downregulated genes</p>
+<p>Top 20 downregulated lncRNA</p>
 <div class="cell">
-<div class="sourceCode cell-code" id="cb17"><pre class="sourceCode r code-with-copy"><code class="sourceCode r"><span id="cb17-1"><a href="#cb17-1" aria-hidden="true" tabindex="-1"></a>top_down_mRNA <span class="ot">&lt;-</span> mRNA_data <span class="sc">%&gt;%</span> <span class="fu">arrange</span>(log2FC) <span class="sc">%&gt;%</span> <span class="fu">slice_head</span>(<span class="at">n =</span> <span class="dv">20</span>)</span></code><button title="Copy to Clipboard" class="code-copy-button"><i class="bi"></i></button></pre></div>
-</div>
-<p>Plot downregulated</p>
-<div class="cell">
-<div class="sourceCode cell-code" id="cb18"><pre class="sourceCode r code-with-copy"><code class="sourceCode r"><span id="cb18-1"><a href="#cb18-1" aria-hidden="true" tabindex="-1"></a><span class="fu">ggplot</span>(top_down_mRNA, <span class="fu">aes</span>(<span class="at">x =</span> <span class="fu">reorder</span>(GeneSymbol, log2FC), <span class="at">y =</span> log2FC, <span class="at">fill =</span> negLog10P)) <span class="sc">+</span> <span class="fu">geom_col</span>() <span class="sc">+</span> <span class="fu">scale_fill_gradient</span>(<span class="at">low =</span> <span class="st">"lightgreen"</span>, <span class="at">high =</span> <span class="st">"darkgreen"</span>, <span class="at">name =</span> <span class="st">"-log10(p-value)"</span>) <span class="sc">+</span> <span class="fu">coord_flip</span>() <span class="sc">+</span> <span class="fu">theme_minimal</span>() <span class="sc">+</span> <span class="fu">labs</span>(<span class="at">title =</span> <span class="st">"Top 20 Downregulated Genes"</span>, <span class="at">x =</span> <span class="st">"Gene Symbol"</span>, <span class="at">y =</span> <span class="st">"log2(Fold Change)"</span>)</span></code><button title="Copy to Clipboard" class="code-copy-button"><i class="bi"></i></button></pre></div>
+<div class="sourceCode cell-code" id="cb15"><pre class="sourceCode r code-with-copy"><code class="sourceCode r"><span id="cb15-1"><a href="#cb15-1" aria-hidden="true" tabindex="-1"></a>top_down_lncRNA <span class="ot">&lt;-</span> lncRNA_data <span class="sc">|&gt;</span> <span class="fu">arrange</span>(log2FC) <span class="sc">|&gt;</span> <span class="fu">slice_head</span>(<span class="at">n =</span> <span class="dv">20</span>)</span>
+<span id="cb15-2"><a href="#cb15-2" aria-hidden="true" tabindex="-1"></a><span class="fu">ggplot</span>(top_down_lncRNA, <span class="fu">aes</span>(<span class="at">x =</span> <span class="fu">reorder</span>(GeneSymbol, log2FC), <span class="at">y =</span> log2FC, <span class="at">fill =</span> negLog10P)) <span class="sc">+</span> <span class="fu">geom_col</span>() <span class="sc">+</span> <span class="fu">scale_fill_gradient</span>(<span class="at">low =</span> <span class="st">"lightgreen"</span>, <span class="at">high =</span> <span class="st">"darkgreen"</span>, <span class="at">name =</span> <span class="st">"-log10(p-value)"</span>) <span class="sc">+</span> <span class="fu">coord_flip</span>() <span class="sc">+</span> <span class="fu">theme_minimal</span>() <span class="sc">+</span> <span class="fu">labs</span>(<span class="at">title =</span> <span class="st">"Top 20 Downregulated Genes"</span>, <span class="at">x =</span> <span class="st">"Gene Symbol"</span>, <span class="at">y =</span> <span class="st">"log2(Fold Change)"</span>)</span></code><button title="Copy to Clipboard" class="code-copy-button"><i class="bi"></i></button></pre></div>
 <div class="cell-output-display">
 <div>
 <figure class="figure">
-<p><img src="project_title_files/figure-html/unnamed-chunk-14-1.png" class="img-fluid figure-img" width="672"></p>
+<p><img src="project_title_files/figure-html/unnamed-chunk-13-1.png" class="img-fluid figure-img" width="672"></p>
 </figure>
 </div>
 </div>
 </div>
-<p>Is there any transcriptomic variation among the ovarian cancer samples and control sample?</p>
-<p>Which lncRNAs correlate with mRNAs in ovarian cancer?</p>
-<p>Conclusion</p>
+</section>
+<section id="is-there-any-transcriptomic-variation-among-the-ovarian-cancer-samples-and-control-sample" class="level3">
+<h3 class="anchored" data-anchor-id="is-there-any-transcriptomic-variation-among-the-ovarian-cancer-samples-and-control-sample">Is there any transcriptomic variation among the ovarian cancer samples and control sample?</h3>
+</section>
+<section id="conclusion" class="level3">
+<h3 class="anchored" data-anchor-id="conclusion">Conclusion</h3>
 <p>By combining volcano plots, bar graphs, PCA, and CNC analysis, we can dissect the complex transcriptomic landscape of ovarian cancer cells. This structured pipeline not only identifies key regulators but also provides biological insights for downstream validation and hypothesis generation.</p>
 
 
+</section>
+</section>
 
 </main> <!-- /main -->
 <script id="quarto-html-after-body" type="application/javascript">

diff --git a/projects.html b/projects.html
@@ -217,9 +217,9 @@ Author
 </thead>
 <tbody class="list">
 
-<tr data-index="0" data-listing-file-modified-sort="1753572901483" data-listing-reading-time-sort="3" data-listing-word-count-sort="594" data-listing-title-sort="Transcriptomics profiling of Ovarian Cancer cells demonstrating differential lncRNA and mRNA expression" data-listing-filename-sort="project_title.qmd">
+<tr data-index="0" data-listing-file-modified-sort="1753576011153" data-listing-reading-time-sort="4" data-listing-word-count-sort="769" data-listing-title-sort="Transcriptomics profiling of Ovarian Cancer cells" data-listing-filename-sort="project_title.qmd">
 <td>
-<a href="./projects/project_title.html" class="title listing-title">Transcriptomics profiling of Ovarian Cancer cells demonstrating differential lncRNA and mRNA expression</a>
+<a href="./projects/project_title.html" class="title listing-title">Transcriptomics profiling of Ovarian Cancer cells</a>
 </td>
 <td>
 <span class="listing-author">Sneha Basu</span>
